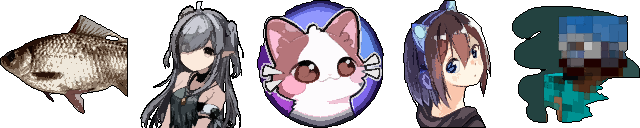
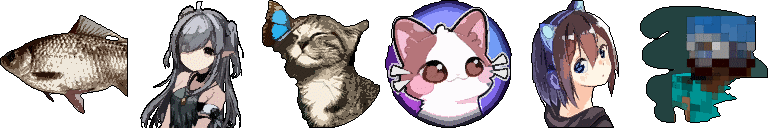
hotbar, new blocks and new artist ^-^

diff --git a/src/client/entity/Player.cpp b/src/client/entity/Player.cpp
@@ -8,7 +8,7 @@
 #include <Utils.hpp>
 #include <Game.hpp>
 
-Player::Player(std::shared_ptr<World> world) : SimplePlayer::SimplePlayer(world) {
+Player::Player(std::shared_ptr<World> world) : SimplePlayer::SimplePlayer(world), m_selectedBlock(0) {
     m_header = Header::PLAYER;
     m_camera.zoom = 50.0f;
     m_camera.rotation = 0.0f;
@@ -38,6 +38,10 @@ Player::Player(std::shared_ptr<World> world) : SimplePlayer::SimplePlayer(world)
     m_inventory.push_back(std::make_shared<Block>(Block::ID::COBLESTONE));
     m_inventory.push_back(std::make_shared<Block>(Block::ID::PLANKS));
     m_inventory.push_back(std::make_shared<Block>(Block::ID::BRICKS));
+    m_inventory.push_back(std::make_shared<Block>(Block::ID::BOOKSHELF));
+    m_inventory.push_back(std::make_shared<Block>(Block::ID::FLOWER));
+    m_inventory.push_back(std::make_shared<Block>(Block::ID::FURHANCE));
+    m_inventory.push_back(std::make_shared<Block>(Block::ID::ACTIVE_FURHANCE));
 
     for (auto& col : colors) {
         auto wool = std::make_shared<Block>(Block::ID::WOOL);
@@ -317,13 +321,12 @@ void Player::update() {
     if (IsKeyDown(KEY_LEFT_CONTROL) && wheel != 0.f) {
         m_camera.zoom -= wheel * 10.f;
     }
-
-    if (!IsKeyDown(KEY_LEFT_CONTROL) && wheel != 0.0f) {
-        m_selectedBlock += (wheel > 0 ? -1 : 1);
-        if (m_selectedBlock >= m_inventory.size())
-            m_selectedBlock = 0;
-        if (m_selectedBlock < 0)
-            m_selectedBlock = static_cast<uint8_t>(m_inventory.size()) - 1;
+    
+    if(wheel != 0.f) {
+        (wheel > 0.f ? m_selectedBlock++ : m_selectedBlock--);
+        
+        if(m_selectedBlock < 0) m_selectedBlock = 8;
+        if(m_selectedBlock >= 9) m_selectedBlock = 0;
     }
 
     if (IsKeyPressed(stm->getKeybind("fly"))) {

diff --git a/src/client/ui/PlayScene.cpp b/src/client/ui/PlayScene.cpp
@@ -11,7 +11,7 @@
 #include <Timer.hpp>
 #include <Game.hpp>
 #include <ui/MainMenuScene.hpp>
-
+#include <ui/nodes/Hotbar.hpp>
 #include <chrono>
 #include <list>
 
@@ -64,7 +64,13 @@ PlayScene::PlayScene(bool isOnline) : Scene(), m_timer(std::make_shared<Timer>(6
         y += btn->getHeight() + btn->getBorderWidth();
     }
 
-    pauseMenu->hugContent(); 
+    pauseMenu->hugContent();
+
+    auto hotbar = std::make_shared<Hotbar>(m_player);
+    hotbar->setAnchorY(0.f);
+    hotbar->setPos({getWidth() / 2, 0.f});
+    hotbar->setFlag(FLAG_GUI_SCALE, true);
+    addChild(hotbar);
 }
 
 PlayScene::~PlayScene() {
@@ -84,16 +90,17 @@ void PlayScene::draw() {
         RenderManager::renderBlock({GetScreenWidth() - 42.f, 10.f, 32.f, 32.f}, selectedBlock);
     }
 
-    Debug::get()->draw();
-
-    auto mouse = GetMousePosition();
-    RenderManager::drawTile("gui.png", 0, {mouse.x, mouse.y, 16.f, 16.f}, COL_WHITE, 0.f, {8.f, 8.f});
-
     if(m_paused) {
         RenderManager::drawRect({0.f, 0.f, getWidth(), getHeight()}, {0, 0, 0, 127});
     }
 
     Scene::draw();
+
+
+    auto mouse = GetMousePosition();
+    RenderManager::drawTile("gui.png", 0, {mouse.x, mouse.y, 16.f, 16.f}, COL_WHITE, 0.f, {8.f, 8.f});
+
+    Debug::get()->draw();
 }
 
 void PlayScene::update() {

diff --git a/src/client/ui/nodes/Hotbar.cpp b/src/client/ui/nodes/Hotbar.cpp
@@ -1,0 +1,31 @@
+#include <ui/nodes/Hotbar.hpp>
+#include <RenderManager.hpp>
+#include <raylib.h>
+#include <entity/Player.hpp>
+
+float constexpr cellSize = 32.f;
+float constexpr blockSize = cellSize / 2.f;
+int constexpr cellsCount = 9;
+
+Hotbar::Hotbar(std::shared_ptr<Player> player) : Frame(), m_player(player) {
+    setSize({cellSize * cellsCount + m_border * (cellsCount + 3), cellSize + m_border * 4});
+}
+
+void Hotbar::draw() {
+    Frame::draw();
+
+    auto inventory = m_player->getInventory();
+    auto selected = m_player->getSelectedIndex();
+
+    for (auto i = 0; i < cellsCount; i++) {
+        Rectf cell = {m_border * 2 + cellSize * i + m_border * i, m_border * 2, cellSize, cellSize};
+        Rectf block = {cell.x + (cell.width - blockSize) / 2, cell.y + (cell.height - blockSize) / 2, blockSize, blockSize};
+
+        RenderManager::drawFrame(cell, m_color, m_border);
+        RenderManager::renderBlock(block, inventory[i]);
+
+        if(i == selected) {
+            RenderManager::drawRectLines(cell, COL_WHITE, m_border);
+        }
+    }
+}

diff --git a/src/client/ui/nodes/DropDown.cpp b/src/client/ui/nodes/DropDown.cpp
@@ -33,8 +33,7 @@ void DropDown::draw() {
         auto const scrollBar = totalHeight > m_maxHeight;
         auto const rect = Rectf {0.f, m_bounds.height + m_border, m_bounds.width, conHeight};
 
-        RenderManager::drawRect(rect, m_color);
-        RenderManager::drawRectLines(rect, m_color - Col4u {0x7F, 0x7F, 0x7F, 0x7F}, m_border);
+        RenderManager::drawFrame(rect, m_color, m_border);
 
         Rectf cutList = {
             bounds.x + m_border * getGlobalScaleX(),
@@ -52,8 +51,7 @@ void DropDown::draw() {
                     fontsize
                 };
 
-                RenderManager::drawRect(cell, m_color);
-                RenderManager::drawRectLines(cell, borderColor, m_border);
+                RenderManager::drawFrame(cell, m_color, m_border);
                 RenderManager::drawText("boldfont", m_elements[i], {cell.width / 2, cell.y + cell.height / 2}, COL_WHITE, fontsize, {0.5f, 0.5f});
             }
 

diff --git a/src/client/ui/CreditsScene.cpp b/src/client/ui/CreditsScene.cpp
@@ -12,6 +12,7 @@ CreditsScene::CreditsScene() {
     std::vector<Developer> const devs = {
         {"Del", "Artist"},
         {"e2e4", "Artist"},
+        {"eban1ss1mo", "Artist"},
         {"InviseDivine", "Programmer"},
         {"Kolyah35", "Programmer"},
         {"dogotrigger", "Programmer"},
@@ -19,7 +20,7 @@ CreditsScene::CreditsScene() {
     // clang-format on
 
     auto container = std::make_shared<Container>();
-    container->setSize({500, 250});
+    container->setSize({600, 250});
     container->setFlag(FLAG_ALWAYS_CENTER, true);
     container->setFlag(FLAG_GUI_SCALE, true);
     addChild(container);

diff --git a/src/client/entity/Player.hpp b/src/client/entity/Player.hpp
@@ -13,7 +13,7 @@ class Player : public SimplePlayer {
 private:
     Camera2D m_camera;
     std::vector<std::shared_ptr<Block>> m_inventory;
-    int8_t m_selectedBlock = 0;
+    int8_t m_selectedBlock;
 
     bool m_sneak = false;
     bool m_fly = false;
@@ -42,8 +42,8 @@ public:
     
     Vec2i getTargetBlock();
     std::shared_ptr<Block> getSelectedBlock();
+    int8_t getSelectedIndex() { return m_selectedBlock; }
 
-    Camera2D& getCamera() {
-        return m_camera;
-    }
+    Camera2D& getCamera() { return m_camera; }
+    std::vector<std::shared_ptr<Block>>& getInventory() { return m_inventory; }
 };

diff --git a/src/client/RenderManager.cpp b/src/client/RenderManager.cpp
@@ -60,6 +60,14 @@ void RenderManager::drawRectLines(Rectf rect, Col4u col, float thick) {
     DrawRectangleLinesEx(rect.to<Rectangle>(), thick, col.to<Color>());
 }
 
+void RenderManager::drawFrame(Rectf rect, Col4u col, float borderSize) {
+    drawRect(rect, col);
+    
+    if(borderSize > 0.f) {
+        drawRectLines(rect, col - Col4u {0x7F, 0x7F, 0x7F, 0x7F}, borderSize);
+    }
+}
+
 Vec2f RenderManager::getTextSize(std::string const& text, std::string const& fontKey, float fontSize, float spacing) {
     auto tm = TextureManager::get();
     auto font = tm->getFont(fontKey);

diff --git a/src/shared/world/Block.cpp b/src/shared/world/Block.cpp
@@ -21,6 +21,14 @@ std::string const Block::idToString(ID id) {
         case WOOL: return "Wool";
         case BEDROCK: return "Bedrock";
         case BRICKS: return "Bricks";
+        case OAK_LOG: return "Oak log";
+        case LEAVES: return "Leaves";
+        case COAL_ORE: return "Coal ore";
+        case IRON_ORE: return "Iron ore";
+        case GOLD_ORE: return "Gold ore";
+        case DIAMOND_ORE: return "Diamond ore";
+        case LAPIZ_ORE: return "Lapiz ore";
+        case BOOKSHELF: return "Bookshelf";
         default: return "Unknown";
     }
 }

diff --git a/src/client/ui/nodes/Frame.cpp b/src/client/ui/nodes/Frame.cpp
@@ -11,21 +11,6 @@ Frame::Frame() : Node() {
 }
 
 void Frame::draw() {
-    auto rect = Rectf {0.f, 0.f, getWidth(), getHeight()};
-
-    RenderManager::drawRect(rect, m_color);
-    
-    if(m_border > 0.f) {
-        RenderManager::drawRectLines(rect, m_color - Col4u {0x7F, 0x7F, 0x7F, 0x7F}, m_border);
-    }
-
     Node::draw();
-}
-
-void Frame::setBorderWidth(float width) {
-    m_border = width;
-}
-
-float Frame::getBorderWidth() {
-    return m_border;
+    RenderManager::drawFrame({0.f, 0.f, getWidth(), getHeight()}, m_color, m_border);
 }

diff --git a/src/client/RenderManager.hpp b/src/client/RenderManager.hpp
@@ -16,6 +16,7 @@ namespace RenderManager {
     void drawText(std::string const& font, std::string const& text, Vec2f pos, Col4u color = COL_WHITE, float fontSize = 0.f, Vec2f origin = {0.f, 0.f}, float spacing = 1.f);
     void drawRect(Rectf rect, Col4u col);
     void drawRectLines(Rectf rect, Col4u col, float thick);
+    void drawFrame(Rectf rect, Col4u col, float borderSize);
 
     Vec2f getTextSize(std::string const& text, std::string const& font, float fontSize, float spacing = 1.f);
 

diff --git a/src/client/ui/nodes/Hotbar.hpp b/src/client/ui/nodes/Hotbar.hpp
@@ -1,0 +1,19 @@
+#include <ui/nodes/Frame.hpp>
+#include <vector>
+#include <algorithm>
+
+class Block;
+class Player;
+
+class Hotbar : public Frame {
+private:
+    using Frame::setSize;
+
+protected:
+    std::shared_ptr<Player> m_player;
+
+public:
+    Hotbar(std::shared_ptr<Player> player);
+
+    void draw();
+};

diff --git a/src/client/ui/nodes/Frame.hpp b/src/client/ui/nodes/Frame.hpp
@@ -8,8 +8,8 @@ protected:
 public:
     Frame();
 
-    void setBorderWidth(float width);
-    float getBorderWidth();
+    void setBorderWidth(float width) { m_border = width; }
+    float getBorderWidth() { return m_border; }
 
     void draw();
 };
